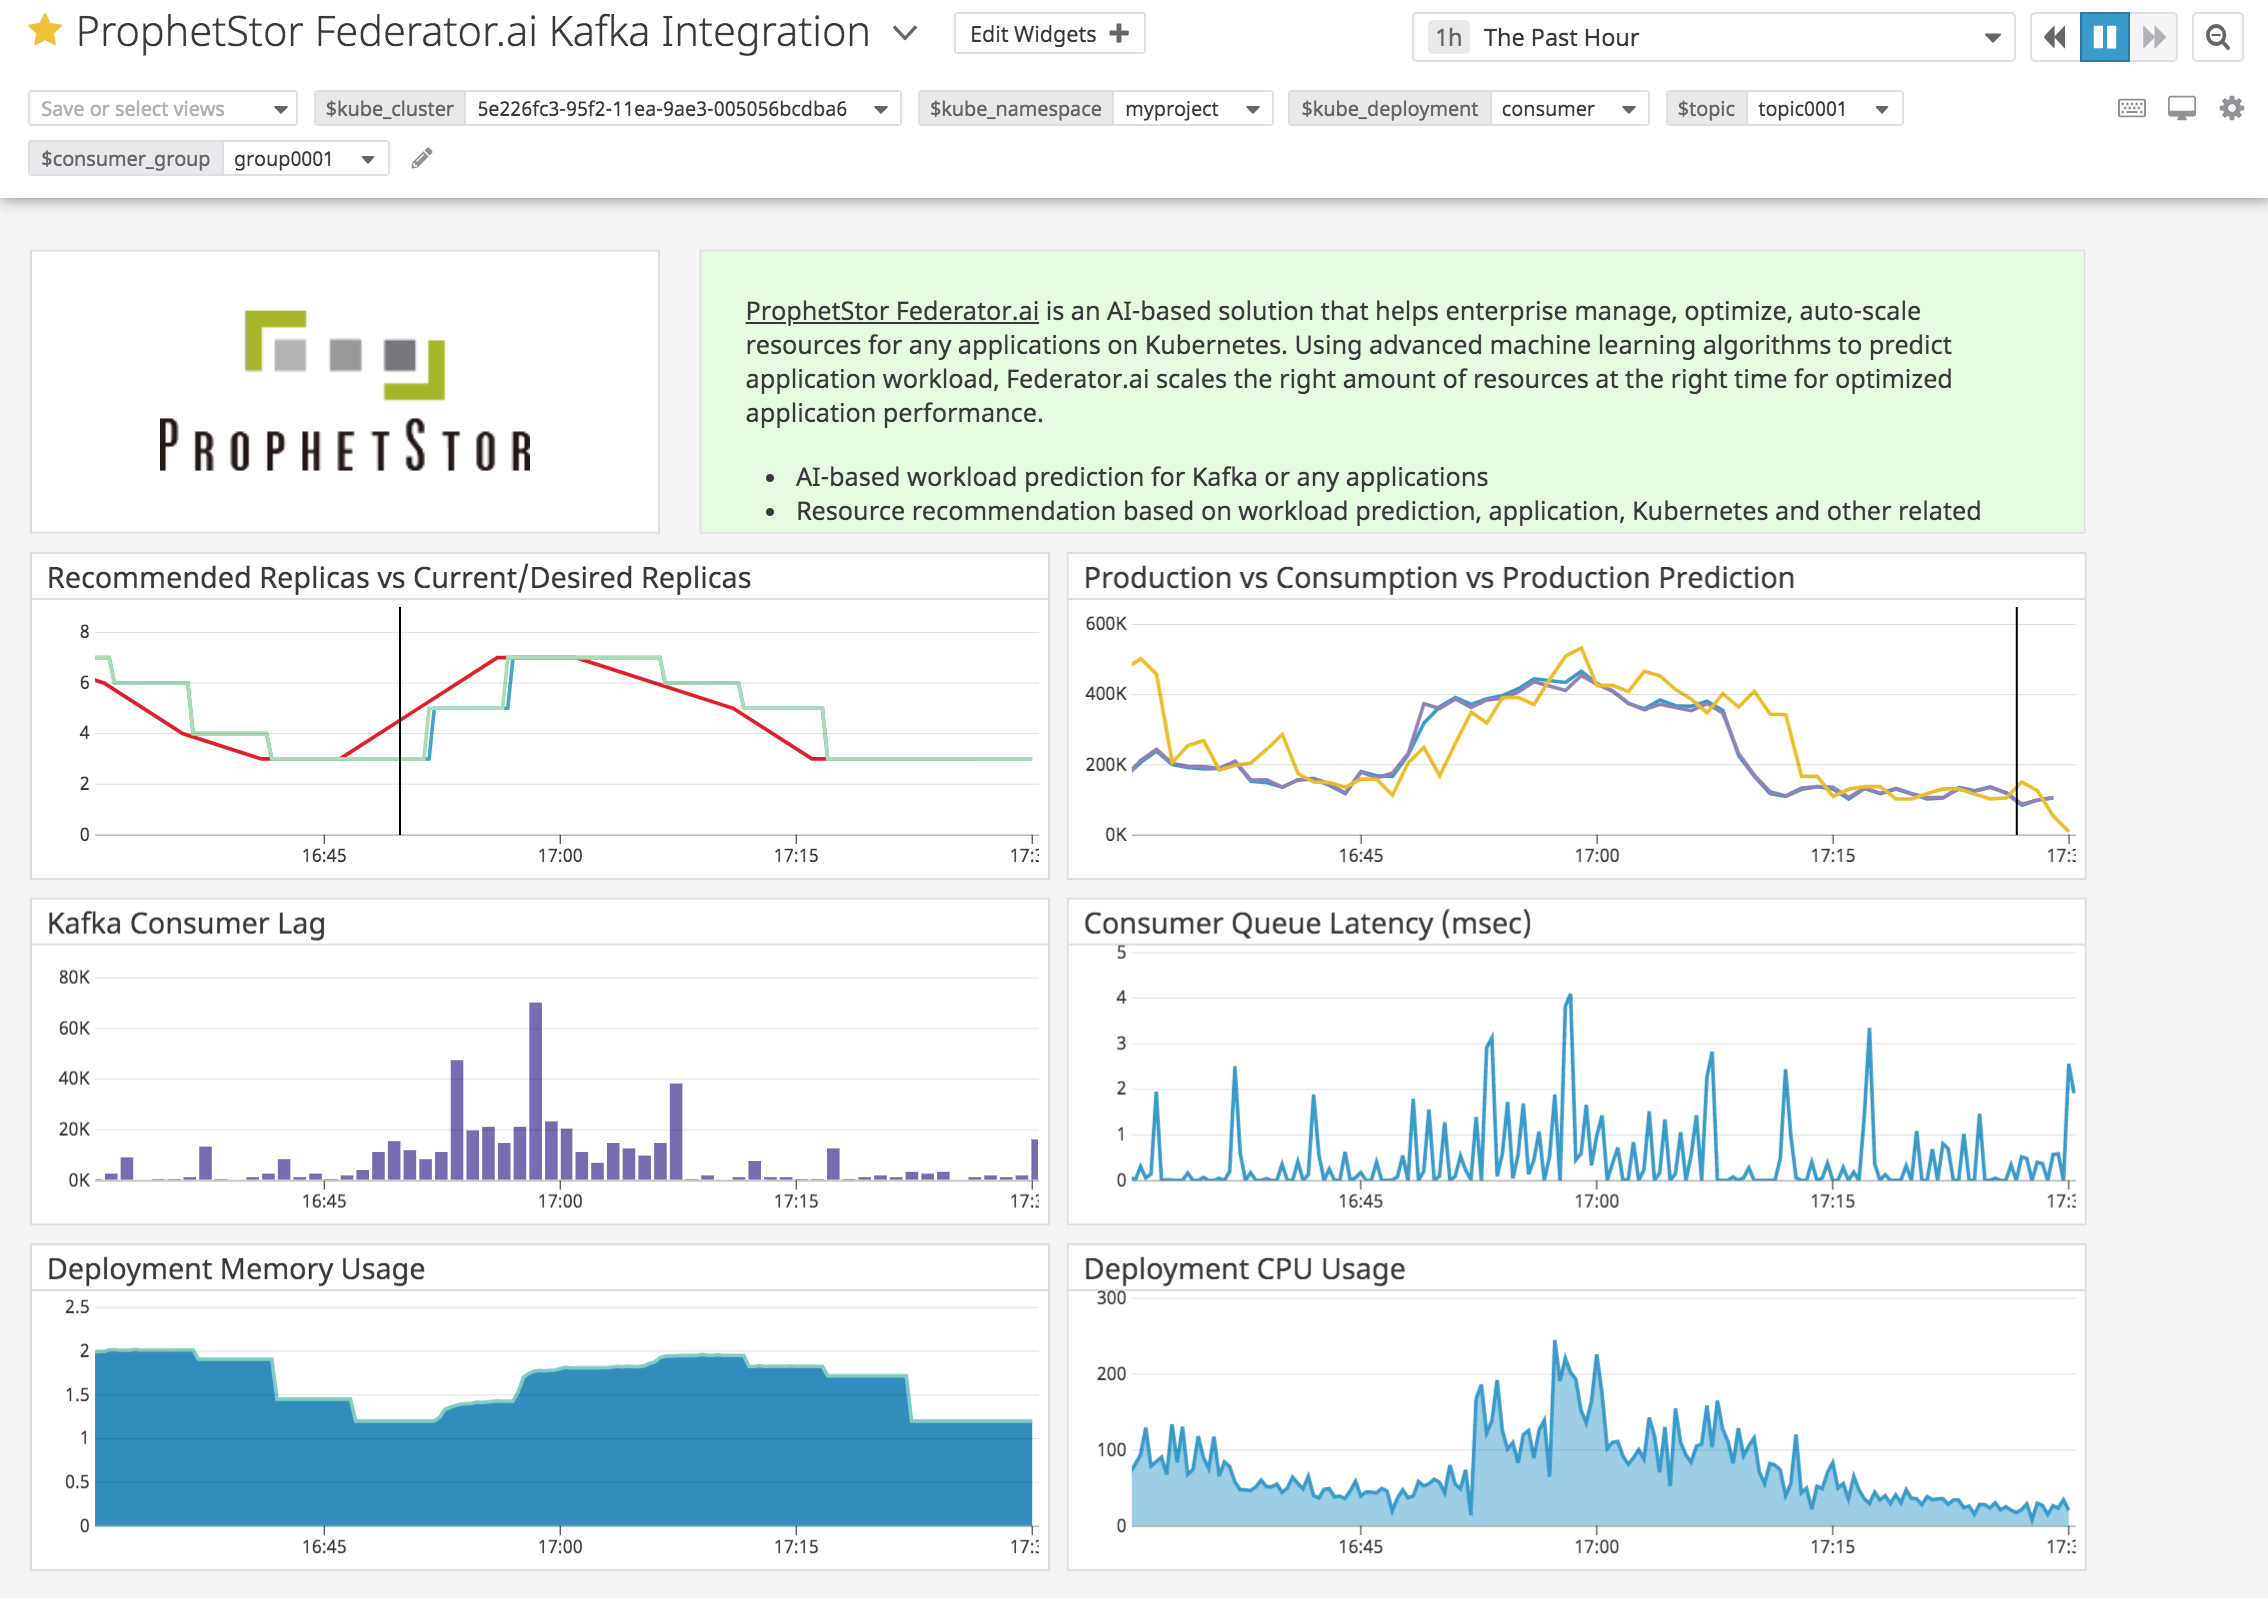
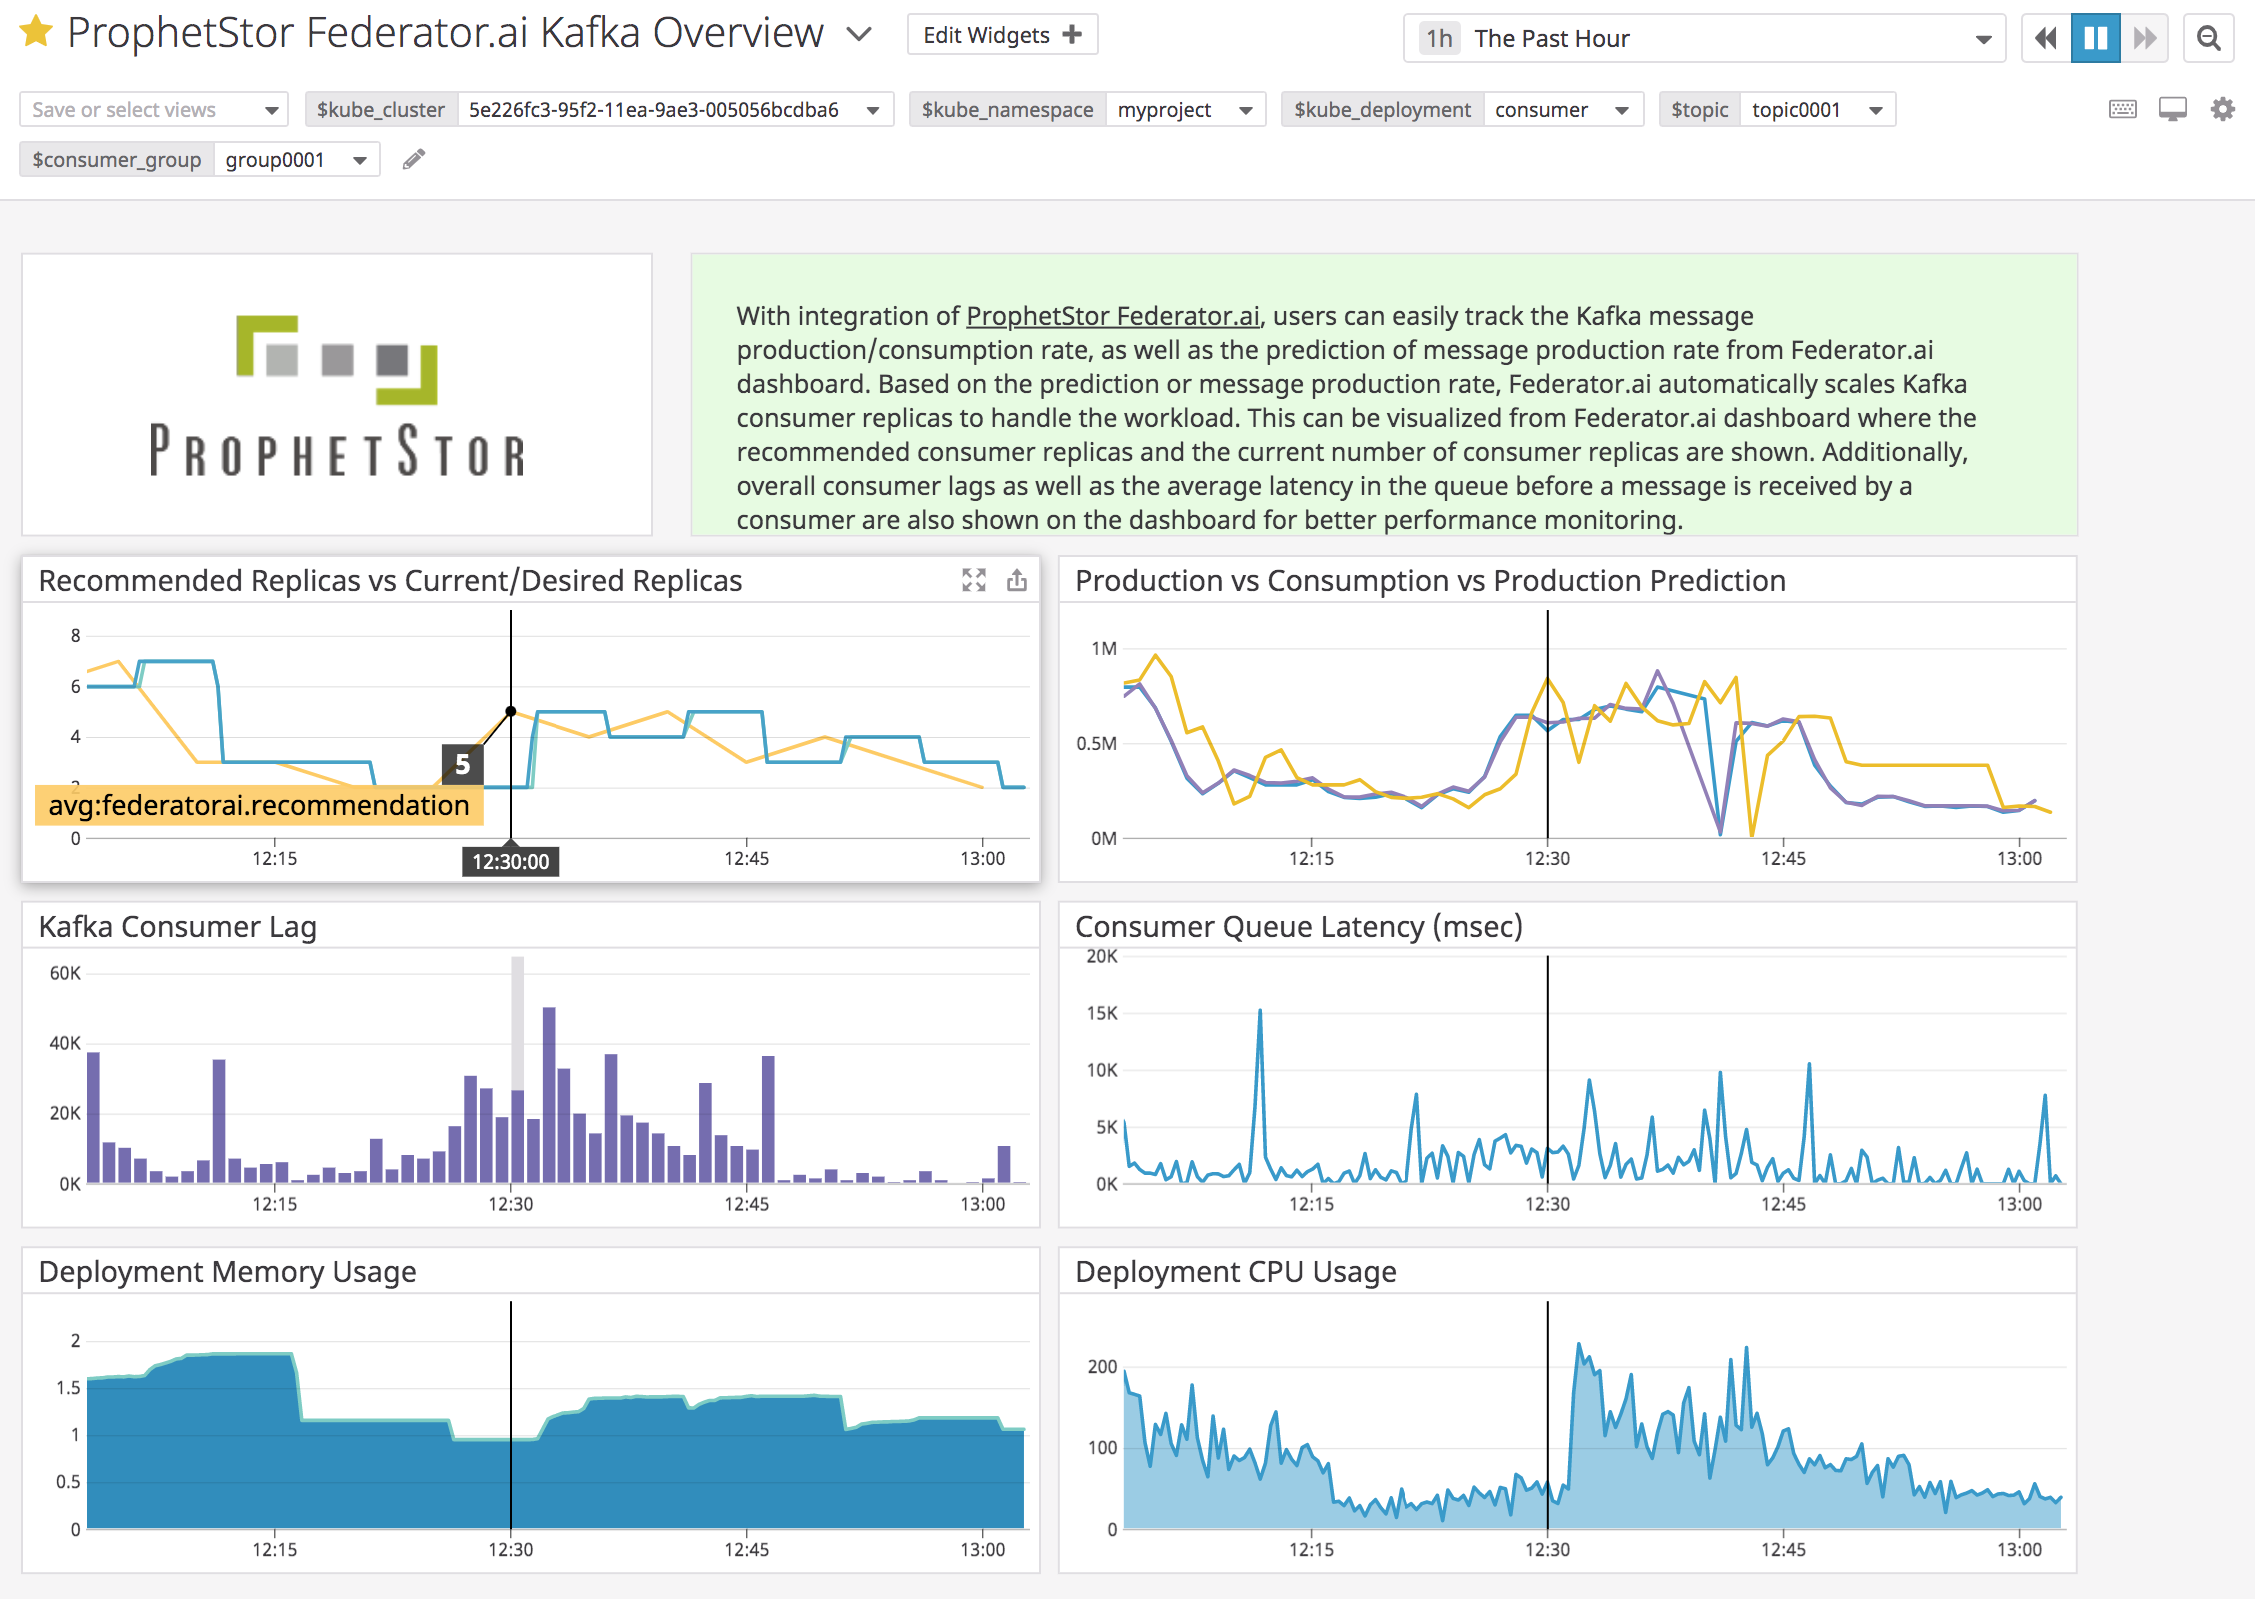
1. update overview and installation of README.md 2. update public_title and short_description fields of manifest.json 3. update Federator.ai dashboard images

diff --git a/federatorai/README.md b/federatorai/README.md
@@ -2,47 +2,45 @@
 
 ## Overview
 
-This check monitors [ProphetStor Federator.ai][1].
-
-ProphetStor Federator.ai is an AI-based solution that helps enterprise manage, optimize, auto-scale resources for any applications on Kubernetes. Using advanced machine learning algorithms to predict application workload, Federator.ai scales the right amount of resources at the right time for optimized application performance.
+[ProphetStor Federator.ai][1] is an AI-based solution that helps enterprise manage, optimize, auto-scale resources for any applications on Kubernetes. Using advanced machine learning algorithms to predict application workload, Federator.ai scales the right amount of resources at the right time for optimized application performance.
 
 * AI-based workload prediction for Kafka or any applications
 * Resource recommendation based on workload prediction, application, Kubernetes and other related metrics
 * Automatic scaling of application containers through [Datadog Watermark Pod Autoscaler (WPA)][4]
 
-With integration of Federator.ai, users can easily track the Kafka message production/consumption rate, as well as the prediction of message production rate from Federator.ai dashboard. Based on the prediction or message production rate, Federator.ai automatically scales Kafka consumer replicas to handle the workload. This can be visualized from Federator.ai dashboard where the recommended consumer replicas and the current number of consumer replicas are shown. Additionally, overall consumer lags as well as the average latency in the queue before a message is received by a consumer are also shown on the dashboard for better performance monitoring.
+With integration of ProphetStor Federator.ai, users can easily track the Kafka message production/consumption rate, as well as the prediction of message production rate from Federator.ai dashboard. Based on the prediction or message production rate, Federator.ai automatically scales Kafka consumer replicas to handle the workload. This can be visualized from Federator.ai dashboard where the recommended consumer replicas and the current number of consumer replicas are shown. Additionally, overall consumer lags as well as the average latency in the queue before a message is received by a consumer are also shown on the dashboard for better performance monitoring.
 
-* Federator.ai Dashboard Overview
+* **Federator.ai Dashboard Overview**
 
 ![dashboard_overview][7]
 
-* Recommended Replicas vs Current/Desired Replicas
-  This timeseries graph shows the recommended replicas from the Federator.ai and the desired and current replicas in the system.
+* **Recommended Replicas vs Current/Desired Replicas**
+   - This timeseries graph shows the recommended replicas from the Federator.ai and the desired and current replicas in the system.
 
 ![dashboard_recommended_replicas][13]
 
-* Production vs Consumption vs Production Prediction
-  This timeseries graph shows the Kafka message production rate and consumption rate and the production rate predicted by Federator.ai.
+* **Production vs Consumption vs Production Prediction**
+   - This timeseries graph shows the Kafka message production rate and consumption rate and the production rate predicted by Federator.ai.
 
 ![dashboard_production_consumption][14]
 
-* Kafka Consumer Lag
-  This timeseries graph shows the sum of consumer lags from all partitions.
+* **Kafka Consumer Lag**
+   - This timeseries graph shows the sum of consumer lags from all partitions.
 
 ![dashboard_consumer_lag][15]
 
-* Consumer Queue Latency (msec)
-  This timeseries graph shows the average latency of a message in the message queue before it is received by a consumer.
+* **Consumer Queue Latency (msec)**
+   - This timeseries graph shows the average latency of a message in the message queue before it is received by a consumer.
 
 ![dashboard_queue_latency][16]
 
-* Deployment Memory Usage
-  This timeseries graph shows the memory usage of consumers.
+* **Deployment Memory Usage**
+   - This timeseries graph shows the memory usage of consumers.
 
 ![dashboard_memory_usage][17]
 
-* Deployment CPU Usage
-  This timeseries graph shows the CPU usage of consumers.
+* **Deployment CPU Usage**
+   - This timeseries graph shows the CPU usage of consumers.
 
 ![dashboard_cpu_usage][18]
 
@@ -55,14 +53,14 @@ With integration of Federator.ai, users can easily track the Kafka message produ
 2. Install the Federator.ai for OpenShift/Kubernetes by the following command
 
    ```shell
-   $ curl https://raw.githubusercontent.com/containers-ai/federatorai-operator/v4.2.785/deploy/install.sh |bash
+   $ curl https://raw.githubusercontent.com/containers-ai/federatorai-operator/datadog/deploy/install.sh |bash
    ```
 
    ```shell
-   $ curl https://raw.githubusercontent.com/containers-ai/federatorai-operator/v4.2.785/deploy/install.sh |bash
+   $ curl https://raw.githubusercontent.com/containers-ai/federatorai-operator/datadog/deploy/install.sh |bash
    Checking environment version...
    ...Passed
-   Please input Federator.ai Operator tag: v4.2.785
+   Please input Federator.ai Operator tag: datadog
    Enter the namespace you want to install Federator.ai [default: federatorai]:
    .........
    (snipped)
@@ -76,7 +74,7 @@ With integration of Federator.ai, users can easily track the Kafka message produ
    .........
    (snipped)
    .........
-   Install Alameda v4.2.785 successfully
+   Install Alameda successfully
 
    Downloaded YAML files are located under /tmp/install-op
    ```
@@ -99,7 +97,7 @@ With integration of Federator.ai, users can easily track the Kafka message produ
    - Download the Data-Adapter configuration script from Github.
 
    ```shell
-   $ curl https://raw.githubusercontent.com/containers-ai/federatorai-operator/4.2-husky/deploy/federatorai-setup-for-datadog.sh -O
+   $ curl https://raw.githubusercontent.com/containers-ai/federatorai-operator/datadog/deploy/federatorai-setup-for-datadog.sh -O
    ```
 
    - Change the execution permission.
@@ -125,8 +123,8 @@ With integration of Federator.ai, users can easily track the Kafka message produ
    You are connecting to cluster: https://api.jc-ocp4.172-31-17-84.nip.io:6443
 
    Getting Datadog info...
-   Input a Datadog API Key []:7c8475872d97cbc155b893a8311111xx
-   Input a Datadog Application Key []:a4c3f7620db747800d3dcb7c325fcb08a11111xx
+   Input a Datadog API Key []:xxxxx9273dxxcbc155xx3a7331xxxxx
+   Input a Datadog Application Key []:xxxxx7220db1478xxxxxcb5c323fcb02a11xxxxx
 
    Getting the Kafka info... No.1
    Input Kafka consumer deployment name []: consumer
